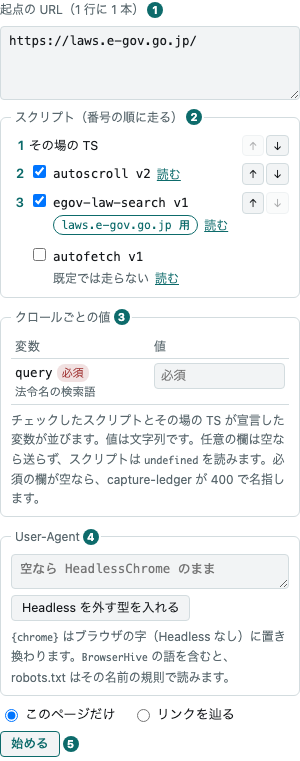
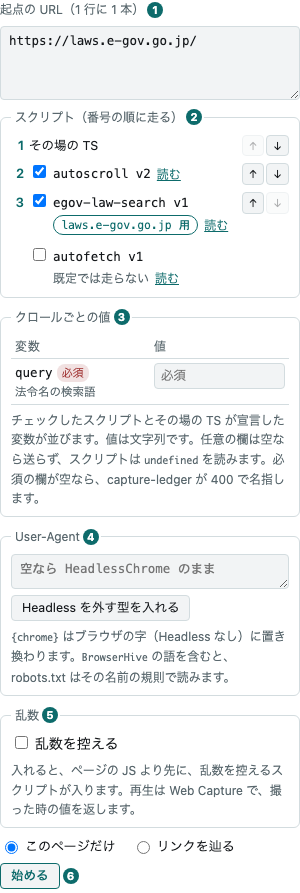
feat: クロールを始める画面の「乱数を控える」と、経緯の画面の乱数の控え（CAPTURE-378） (#117)
* feat: クロールを始める画面の「乱数を控える」と、経緯の画面の乱数の控え（CAPTURE-378）

capture-ledger v0.105.0 が受ける recordRandom と、経緯の答えの capture.random（BrowserHive WACZ Profile 1.26.0 の
browserhive:capture.random）を画面に出す。

- 新しいクロールの画面: User-Agent の後に「乱数を控える」のチェック（既定は外れ）と説明の 1 行。入れたときだけ
  startBody が recordRandom: true を送る（外せば鍵ごと送らない）。「始める」と「定期にする」は同じ startBodyNow を通る。
  言語の切り替えの書きかけにも数える
- クロールの開いた行: recordRandom が true の行だけ「乱数を控えた」
- 経緯の画面の題の行: capture.random から「乱数の控え N 回」（truncated なら「（欠けがありうる）」）、withheld・failed は
  理由。not-requested と欄の無い答えには何も足さない。純な関数は public/timeline.js の randomOf・randomText
- 代役: CAPTURE_FIELDS に random、body の鍵と行と詳しい答えに recordRandom（真偽でなければ schema の 400）。見本は足さない
- docs（ja・en の screens.md）: チェック・開いた行の 1 行・経緯の項目。docs-shots の start に ⑤ の印を足した
- public/replayweb.js の頭の注記を、BrowserHive v25 からの一覧の形（文書の行と写しの行）に直した
- 試験: startBody（入れる → true・外す → 鍵が無い）、randomOf・randomText（控えた・欠けうる・withheld・failed・
  not-requested・欄なし）、代役の recordRandom

docs の絵（shots.json）は撮り直していない（後で撮り直す）ので、site:check は規則 7 で赤。

Claude-Session: https://claude.ai/code/session_01TRqfaRbuf8iNv8KoqE6NnA

* docs: クロールを始める画面の絵を撮り直し、絵の全部の枠を 361 → 366 KB に上げる（CAPTURE-378）

start が 31.1 → 35.9 KB（「乱数を控える」の欄の分）、全部で 365.6 KB。利用者の答え（CAPTURE-378 の問 12 (a)）のとおり、増えた分を KB に切り上げて上げた。ほかの 15 枚は画素が変わらない。

Claude-Session: https://claude.ai/code/session_01TRqfaRbuf8iNv8KoqE6NnA

---------

diff --git a/public/app.js b/public/app.js
@@ -122,6 +122,8 @@ import {
   marksOf as traceMarksOf,
   parseTraceHash,
   percentOf,
+  randomOf,
+  randomText,
   readRecords,
   readsRecords,
   readsScreenshots,
@@ -227,11 +229,13 @@ const $ = (id) => document.getElementById(id);
 // index.html は字を書かず、鍵（data-i18n）を書く。描く前に、いまの言語の字を入れる
 applyI18n();
 
-/** 新しいクロールの画面に、読み直すと消える書きかけが在るか（起点・その場の TS・User-Agent・変数の値・予定の名前）。 */
+/** 新しいクロールの画面に、読み直すと消える書きかけが在るか（起点・その場の TS・User-Agent・「乱数を控える」・変数の値・予定の名前）。 */
 const startDraft = () =>
   ["start-seeds", "start-inline-source", "start-inline-name", "start-ua-text", "schedule-name"].some(
     (id) => $(id).value.trim() !== "",
-  ) || [...document.querySelectorAll("#start-vars input")].some((box) => box.value !== "");
+  ) ||
+  $("start-random").checked ||
+  [...document.querySelectorAll("#start-vars input")].some((box) => box.value !== "");
 
 // 言語の切り替え。選びを覚えて頁を読み直すので、書きかけが在れば先に確かめる
 for (const b of document.querySelectorAll("#lang button")) {
@@ -542,6 +546,8 @@ const valuesOf = (one) => {
       ? tag("p", `User-Agent: ${one.userAgent}`)
       : tag("p", t("crawls.detail.uaDefault"), "muted"),
   );
+  // ページの JS が受け取った乱数を控えるよう頼んだクロールだけ（capture-ledger v0.105.0 から。前の行と、頼まなかった行は何も足さない）
+  if (one.recordRandom === true) box.append(tag("p", t("crawls.detail.recordRandom")));
   const vars = Object.entries(one.variables ?? {});
   const secrets = one.secrets ?? [];
   if (vars.length === 0 && secrets.length === 0) {
@@ -1315,7 +1321,7 @@ const variablesNow = () => variablesOf(declaredNow("variable"), values);
 
 /** いまの欄から capture-ledger へ送る本文。「始める」と「定期にする」と、大きさの行が同じ物を見る。 */
 const startBodyNow = () =>
-  startBody($("start-seeds").value, followOf(), runOf(), variablesNow(), $("start-ua-text").value);
+  startBody($("start-seeds").value, followOf(), runOf(), variablesNow(), $("start-ua-text").value, $("start-random").checked);
 
 /** 最後に描いた宣言の形。同じなら描き直さない —— 打っている欄を手の下で作り直さない。 */
 let valuesKey;
@@ -4119,6 +4125,8 @@ const drawTraceHead = () => {
   const facts = [
     axis === undefined ? undefined : t("trace.facts.total", { took: secondsText(axis.endMs) }),
     typeof capture.httpStatusCode === "number" ? `HTTP ${String(capture.httpStatusCode)}` : undefined,
+    // ページの JS が受け取った乱数の控え。頼まなかった取り込みと、欄の無い取り込みには何も足さない
+    randomText(randomOf(capture)),
   ].filter((fact) => fact !== undefined);
   const line = tag("p", facts.join(t("common.sep.dot")), "trace-facts");
   const stopped = stoppedStepOf(answer);

diff --git a/public/timeline.js b/public/timeline.js
@@ -685,6 +685,45 @@ export const screenshotSkipLines = (shots) => {
   return skipped.map((shot) => ({ stage: shot.stage, skipped: shot.skipped }));
 };
 
+/**
+ * 答えの `capture.random`（BrowserHive の要約を capture-ledger v0.105.0 が通した物。BrowserHive WACZ Profile 1.26.0 の
+ * `browserhive:capture.random`）。ページの JS が `Math.random`・`crypto` から受け取った値を `random/values.jsonl` に控えたか。
+ *
+ * **欄の無い答え（それより前の取り込み）と、読めない形は undefined** —— 画面は何も足さない。
+ *
+ * - 控えた: `{ recorded: true, draws, truncated }`。`draws` は値の行の数、`truncated` は行が欠けているかもしれないか
+ * - 控えなかった: `{ recorded: false, skipped }`。`skipped` は理由（`not-requested`・`withheld`・`failed`。無ければ空の字）
+ */
+export const randomOf = (capture) => {
+  const random = capture?.random;
+  if (random === null || typeof random !== "object") return undefined;
+  if (random.recorded === true && typeof random.draws === "number") {
+    return { recorded: true, draws: random.draws, truncated: random.truncated === true };
+  }
+  if (random.recorded === false) return { recorded: false, skipped: typeof random.skipped === "string" ? random.skipped : "" };
+  return undefined;
+};
+
+const RANDOM_SKIP_TEXT = {
+  withheld: () => t("trace.random.withheld"),
+  failed: () => t("trace.random.failed"),
+};
+
+/**
+ * 経緯の画面の頭の 1 項目（`randomOf` の物から）。控えた取り込みは値の行の数と、欠けているかもしれないときの印。
+ * 控えなかった取り込みは、文書を伏せたか、控えられなかったかを言う。**頼まなかった取り込み（`not-requested`）と、欄の無い
+ * 取り込みは undefined**（何も足さない）。知らない理由は届いた字のまま。
+ */
+export const randomText = (random) => {
+  if (random === undefined) return undefined;
+  if (random.recorded) {
+    return random.truncated ? t("trace.random.drawsTruncated", { n: random.draws }) : t("trace.random.draws", { n: random.draws });
+  }
+  if (random.skipped === "not-requested") return undefined;
+  if (Object.hasOwn(RANDOM_SKIP_TEXT, random.skipped)) return RANDOM_SKIP_TEXT[random.skipped]();
+  return t("trace.random.other", { why: random.skipped === "" ? t("trace.shots.skipped.unsaid") : random.skipped });
+};
+
 /** WACZ の索引（CDXJ）の名前。BrowserHive は、圧縮しない 1 本をここに書く。 */
 export const INDEX_PATH = "indexes/index.cdxj";
 

diff --git a/public/replayweb.js b/public/replayweb.js
@@ -3,9 +3,11 @@
  * クロールの行とページの行はクロールの合本を開く（CAPTURE-54）。
  *
  * replay は、`?source=` だけで開くとページ一覧を出し、一覧を日付の新しい順に並べる。WACZ の `mainPageURL` は読まない。
- * BrowserHive v23 からの WACZ では、一覧に並ぶのは DOM の写し（`urn:browserhive:snapshot:…`）で、写しには頁の script が
- * 無い。JS が出し入れする絵（apple.com/jp のヒーローなど）は、写しでは出ない（CAPTURE-29）。だから取り込んだ URL を、
- * 撮った時刻で直に開く。写し（読み込みの後・スクリプトの後）は、replay の Pages タブから開ける。
+ * BrowserHive v25 からの WACZ では、一覧に並ぶのは、取り込んだ文書の行（頼まれた URL。時刻は取り込みの始まり）と、その後に
+ * 撮った DOM の写しの行（`urn:browserhive:snapshot:…`。時刻は写しのレコードの `WARC-Date`）で、新しい順の一覧では写しが
+ * 文書より上に来る。写しには頁の script が無く、JS が出し入れする絵（apple.com/jp のヒーローなど）は、写しでは出ない
+ * （CAPTURE-29）。だから取り込んだ URL を、撮った時刻で直に開く。写し（読み込みの後・スクリプトの後）は、replay の
+ * Pages タブから開ける。
  *
  * link の字と説明は辞書（`i18n/*.json`）に在る。再生の名前（ReplayWeb.page・Web Capture）は固有の名前なので、訳さない。
  */

diff --git a/public/start.js b/public/start.js
@@ -289,9 +289,10 @@ export const userAgentOf = (text) => text.replace(/\s*\n\s*/g, " ").trim();
  * 「このページだけ」（`follow` が null）なら `maxDepth: 0` を足す。「リンクを辿る」なら規則の並びを
  * 必ず送り、深さと枚数は書いたときだけ送る —— 空なら capture-ledger の既定に任せ、既定の数を workbench に写さない。
  * 走らせるものは `scriptsOf`。クロールごとの変数（`variablesOf`）は、1 つでも在るときだけ送る（空の object は送らない）。
- * User-Agent（`userAgentOf`）も、書いたときだけ送る。
+ * User-Agent（`userAgentOf`）も、書いたときだけ送る。「乱数を控える」（`recordRandom`）も、入れたときだけ `true` を送る ——
+ * 外したときは鍵ごと送らず、capture-ledger の既定（`false`）に任せる。
  */
-export const startBody = (text, follow, run = NOTHING_CHOSEN, variables = {}, userAgentText = "") => {
+export const startBody = (text, follow, run = NOTHING_CHOSEN, variables = {}, userAgentText = "", recordRandom = false) => {
   const scripts = scriptsOf(run);
   const userAgent = userAgentOf(userAgentText);
   return {
@@ -306,6 +307,7 @@ export const startBody = (text, follow, run = NOTHING_CHOSEN, variables = {}, us
     ...(scripts !== undefined && { scripts }),
     ...(Object.keys(variables).length > 0 && { variables }),
     ...(userAgent !== "" && { userAgent }),
+    ...(recordRandom && { recordRandom: true }),
   };
 };
 

diff --git a/public/index.html b/public/index.html
@@ -155,6 +155,16 @@
               <div class="start-row"><button type="button" id="start-ua-compatible" data-i18n="start.ua.compatible"></button></div>
               <p class="start-hint" data-i18n="start.ua.hint"></p>
             </fieldset>
+            <!--
+              ページの JS が受け取った乱数（Math.random・crypto）を控えるか（capture-ledger の recordRandom）。外せば送らず、
+              capture-ledger の既定（控えない）。入れると BrowserHive がページの JS より先に控えるスクリプトを入れ、値を WACZ の
+              random/values.jsonl に残す。撮った時の値を返すのは capture-player（Web Capture）で、ReplayWeb.page は返さない
+            -->
+            <fieldset class="start-run" id="start-random-box">
+              <legend data-i18n="start.random.legend"></legend>
+              <label><input type="checkbox" id="start-random" /> <span data-i18n="start.random.label"></span></label>
+              <p class="start-hint" data-i18n="start.random.hint"></p>
+            </fieldset>
             <div class="start-row">
               <label><input type="radio" name="start-depth" id="start-page" checked /> <span data-i18n="start.depth.pageOnly"></span></label>
               <!-- 辿るときは、右の列の「辿り方」のタブで深さ・枚数・規則を決める -->

diff --git a/public/app.css b/public/app.css
@@ -970,7 +970,8 @@ body[data-face="start"] main {
 }
 
 /* 左の列は縦に並ぶ flex なので、枠は潰さない。箱は打つと伸びる（field-sizing の効かないブラウザでは 2 行のまま流して読む） */
-#start-ua {
+#start-ua,
+#start-random-box {
   flex-shrink: 0;
 }
 

diff --git a/docs-site/src/content/docs/screens.md b/docs-site/src/content/docs/screens.md
@@ -167,7 +167,8 @@ the crawl's bundle.
   wire is still in the WARC, yet the ledger answers `archive: null` for those rows too, so they read
   **Hidden in the WARC** (the mark says so when the pointer rests on it). If the Windmill variable was
   rewritten while the crawl ran, the row says from which level. Above them is the `User-Agent` the crawl
-  asked for, as typed, or `User-Agent: still HeadlessChrome` (HeadlessChrome のまま). A crawl given nothing reads
+  asked for, as typed, or `User-Agent: still HeadlessChrome` (HeadlessChrome のまま). A crawl that asked to record
+  random values (ledger v0.105.0) adds `Recorded random values` (乱数を控えた) under it; one that did not adds nothing. A crawl given nothing reads
   `Values passed: none` (渡した値: なし), and a row from an older ledger without values shows nothing here. Last
   are the pages that failed, the latest 5 that the ledger returns (the state column gives the total); if none did, it says so and lists the seed
   URLs.
@@ -414,6 +415,15 @@ reads the ledger's `GET /api/crawls/:id/pages/:page/trace/failure-screenshot`.
   screenshots are records inside the BrowserHive WACZ, so in a signed WACZ the signature covers them. The
   screenshot at the failure is a file outside the WACZ (a failed capture builds no WACZ), and the
   signature does not cover it. Both hold what the captured page was showing, as it was.
+- **The heading line says how many random values were recorded.** From ledger v0.105.0 the answer's
+  `capture.random` passes on BrowserHive's summary
+  ([`browserhive:capture.random`](https://uraitakahito.github.io/browserhive-specs/wacz-profile/1.26.0/#random)). A capture that recorded values shows
+  `N random values recorded` (乱数の控え N 回; N is the answer's `draws`, the value lines in
+  `random/values.jsonl`), with `(may be incomplete)` (欠けがありうる) when the answer's `truncated` says lines may be
+  missing. A capture that was asked to record but has none says why: `withheld` (the document was withheld, so its
+  lines are not kept; 文書を伏せたので残さない) or `failed` (could not be recorded; 控えられなかった). A reason the view does
+  not know is shown as it arrived. A capture that was not asked (`not-requested`), and one whose answer has no
+  `random` field (an older ledger or BrowserHive), get nothing.
 - **Pressing a bar or a mark in the figure shows its fields below**: the start and length of a
   bar, or the time of a mark, in seconds.
 - **A capture that failed says which step it stopped in.** The answer of a timeout or a failure
@@ -437,7 +447,7 @@ The arithmetic (axis, bars, marks, request bars, counts, where the screenshots a
 `public/timeline.js`, pinned by `test/timeline.test.mjs` and `test/timeline-trace.test.mjs` against
 real answers from capturing capture-fixtures on a local stack. The screenshot part is pinned by
 `test/timeline-shots.test.mjs` against real WACZ files made by BrowserHive captures
-(`sandbox/samples/`).
+(`sandbox/samples/`), and the random values line by `test/timeline-random.test.mjs`.
 
 ### The state is worded together with stopReason
 
@@ -458,7 +468,7 @@ tests read the same file the browser reads, so there is no copy to rot.
 ## Start a crawl
 
 The **New crawl** view starts a crawl. The left column holds the seed URLs, the registered scripts, the User-Agent box,
-the per-crawl values (when a ticked script declares any), the depth and the **Start** (始める) button; the
+the **Record random values** (乱数を控える) checkbox, the per-crawl values (when a ticked script declares any), the depth and the **Start** (始める) button; the
 right column holds the box for a script of your own, and how to follow links. The box
 stretches to the bottom of the window and has line numbers on its left, so a large script can be
 pasted, read, fixed a little and run. Write the seed URLs one per line, choose **This page only**
@@ -466,13 +476,14 @@ pasted, read, fixed a little and run. Write the seed URLs one per line, choose *
 a window for reading a registered script, and, while **Follow links** is chosen, to **How to follow**
 (辿り方).
 
-![The left column of the new crawl view: the seed URL (e-Gov Law Search), script rows (a run-order number, a checkbox, and ↑↓) including the row for your own script, the site script egov-law-search, and autofetch left unticked as 既定では走らない, the field for the variable query that egov-law-search declares, the User-Agent box with its button, this page only or follow links, and 始める](../../assets/screens/start.webp)
+![The left column of the new crawl view: the seed URL (e-Gov Law Search), script rows (a run-order number, a checkbox, and ↑↓) including the row for your own script, the site script egov-law-search, and autofetch left unticked as 既定では走らない, the field for the variable query that egov-law-search declares, the User-Agent box with its button, the checkbox 乱数を控える, this page only or follow links, and 始める](../../assets/screens/start.webp)
 
 ① seed URLs\
 ② スクリプト (Scripts): the run-order numbers, the checkboxes and 読む (Read), and ↑↓\
 ③ クロールごとの値 (Per-crawl values): the fields for the variables the ticked scripts declare\
 ④ User-Agent: the box and the button that fills in the pattern without Headless\
-⑤ 始める (Start)
+⑤ 乱数 (Random values): the checkbox 乱数を控える (Record random values)\
+⑥ 始める (Start)
 
 ![The right column of the new crawl view: the tab その場の TS, the name of the script, when it runs, and the script box](../../assets/screens/start-js.webp)
 
@@ -521,6 +532,15 @@ a window for reading a registered script, and, while **Follow links** is chosen,
   shows it under the left column (`400 — The User-Agent must be printable ASCII, at most 512 characters`). The text stays in the box after starting, like the variables and the
   script. The opened row of the crawls view shows the text as typed; the value actually sent is in the BrowserHive WACZ's
   `settings.userAgent`.
+- **Record random values (乱数を控える) keeps the random values the captured page's JS received.** Unticked (the
+  default), nothing is sent and the ledger's default (not recording) applies. Ticked, the form sends `recordRandom: true`
+  (ledger v0.105.0), for **Start** and **Make a schedule** (定期にする) alike. BrowserHive then puts a recorder script into
+  the page before the page's own JS, and writes the values the page's JS got from `Math.random`,
+  `crypto.getRandomValues` and `crypto.randomUUID` to `random/values.jsonl` in the
+  [BrowserHive WACZ](https://uraitakahito.github.io/browserhive-specs/wacz-profile/1.26.0/#random-directory). Replay in Web Capture ↗ (capture-player) returns
+  the recorded values, so a page that picks what it shows at random shows what it picked when it was captured;
+  ReplayWeb.page ↗ does not return them. The opened row of the crawls view says `Recorded random values`
+  (乱数を控えた), and the trace of each capture says how many values were recorded.
 - **When a ticked script or your own script declares values, the Per-crawl values (クロールごとの値) box
   appears.** A script declares the variables it reads in its source with
   `const { query } = defineParams(z.object({ query: z.string().min(1).describe("…") }))`. For a script in
